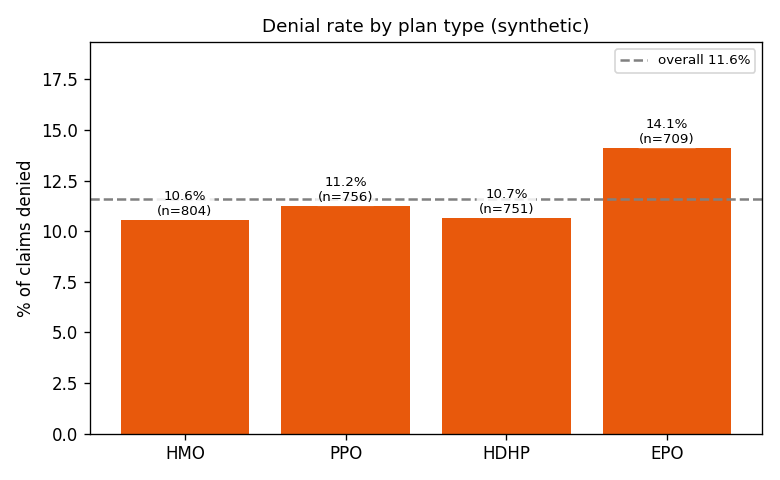
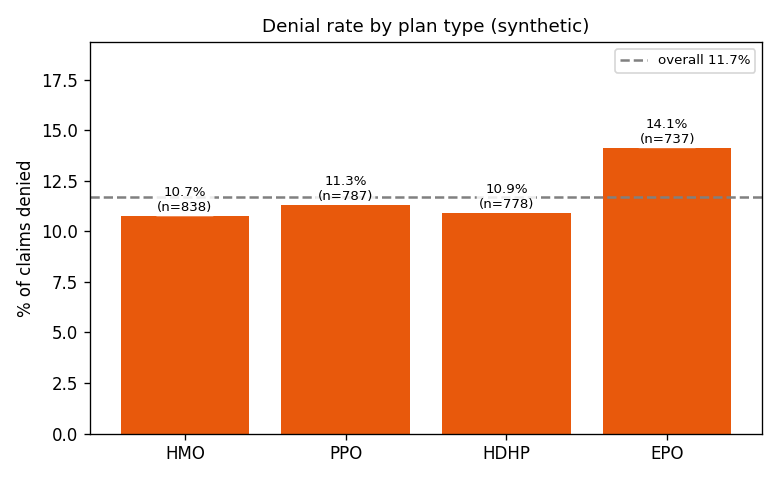
Add denied dollars by reason; refresh claims batches

Changed region(s): [[0.1231, 0.3438, 0.9846, 0.4688], [0.8, 0.2812, 0.8923, 0.3125], [0.0615, 0.1562, 0.1231, 0.1875]]

diff --git a/tests/test_pipeline.py b/tests/test_pipeline.py
@@ -404,3 +404,29 @@ def test_discount_section_renders():
         {"procedure": "93000", "claims": 20, "billed": 2000.0, "allowed": 800.0, "allowed_to_billed": 0.4}])
     assert "| 93000 | 20 | $2,000 | $800 | 40.0% |" in md
     assert "Allowed-to-billed" not in report.render_markdown([], [], [], 0, discounts=[])
+
+
+def test_denied_dollars_by_reason(tmp_path):
+    pipe = Pipeline(tmp_path / "dd.csv")
+    pipe.ingest([
+        make_valid("CLM-1", billed_amount=900, allowed_amount=0, paid_amount=0, status="denied",
+                   denial_reason="not covered"),
+        make_valid("CLM-2", billed_amount=100, allowed_amount=0, paid_amount=0, status="denied",
+                   denial_reason="duplicate claim"),
+        make_valid("CLM-3", billed_amount=100, allowed_amount=0, paid_amount=0, status="denied",
+                   denial_reason="duplicate claim"),
+        make_valid("CLM-4", billed_amount=5000, allowed_amount=3000, paid_amount=2500),   # paid: ignored
+    ])
+    out = pipe.denied_dollars_by_reason()
+    assert [d["reason"] for d in out] == ["not covered", "duplicate claim"]
+    assert out[0]["billed"] == 900.0 and out[0]["share"] == 0.8182     # 900/1100
+    assert out[1]["claims"] == 2 and out[1]["avg_billed"] == 100.0
+    assert Pipeline(tmp_path / "e.csv").denied_dollars_by_reason() == []
+
+
+def test_denied_dollars_section_renders():
+    from healthdata import report
+    md = report.render_markdown([], [], [], 0, denied_dollars=[
+        {"reason": "not covered", "claims": 3, "billed": 900.0, "share": 0.5, "avg_billed": 300.0}])
+    assert "| not covered | 3 | $900 | 50.0% | $300 |" in md
+    assert "Denied dollars" not in report.render_markdown([], [], [], 0, denied_dollars=[])

diff --git a/src/healthdata/report.py b/src/healthdata/report.py
@@ -24,7 +24,8 @@ def render_markdown(monthly: list[dict], denial_reasons: list[tuple[str, int]],
                     concentration: dict | None = None,
                     gates: list[tuple[str, int]] | None = None,
                     denial_procs: list[dict] | None = None,
-                    discounts: list[dict] | None = None) -> str:
+                    discounts: list[dict] | None = None,
+                    denied_dollars: list[dict] | None = None) -> str:
     generated_at = generated_at or dt.datetime.now(dt.timezone.utc)
     total_paid = sum(m["paid"] for m in monthly)
     total_billed = sum(m["billed"] for m in monthly)
@@ -84,6 +85,15 @@ def render_markdown(monthly: list[dict], denial_reasons: list[tuple[str, int]],
                              f"{o['overall_rate']:.1%} | {o['z']:+.2f} |")
         else:
             lines += ["", "No plan/month cells outside the screen."]
+    if denied_dollars:
+        lines += ["", "## Denied dollars by reason", "",
+                  "Billed amount on denied claims. A reason with few claims can still "
+                  "carry a large share when it lands on expensive procedures. Synthetic, illustrative.", "",
+                  "| Reason | Claims | Billed | Share | Avg billed |",
+                  "| --- | ---: | ---: | ---: | ---: |"]
+        for d in denied_dollars:
+            lines.append(f"| {d['reason']} | {d['claims']} | ${d['billed']:,.0f} | "
+                         f"{d['share']:.1%} | ${d['avg_billed']:,.0f} |")
     if discounts:
         lines += ["", "## Allowed-to-billed ratio by procedure", "",
                   "Lowest ratios first (non-denied claims, procedures with enough volume). "

diff --git a/src/healthdata/pipeline.py b/src/healthdata/pipeline.py
@@ -222,6 +222,25 @@ class Pipeline:
         rows.sort(key=lambda x: (x["allowed_to_billed"], x["procedure"]))
         return rows[:top]
 
+    def denied_dollars_by_reason(self) -> list[dict]:
+        """Billed dollars on denied claims per denial reason, largest first,
+        with each reason's share of all denied billed dollars. Counts alone can
+        hide that a rare reason hits expensive procedures. Synthetic,
+        illustrative."""
+        agg: dict[str, list[float]] = {}
+        for r in self.load_store().values():
+            if r.get("status") != "denied":
+                continue
+            a = agg.setdefault(r.get("denial_reason") or "unspecified", [0, 0.0])
+            a[0] += 1
+            a[1] += float(r["billed_amount"] or 0)
+        total = sum(v[1] for v in agg.values())
+        rows = [{"reason": k, "claims": n, "billed": round(b, 2),
+                 "share": round(b / total, 4) if total else 0.0,
+                 "avg_billed": round(b / n, 2)} for k, (n, b) in agg.items()]
+        rows.sort(key=lambda x: (-x["billed"], x["reason"]))
+        return rows
+
     def paid_curve(self, points: int = 20) -> list[tuple[float, float]]:
         """Cumulative share of paid dollars vs share of claims, largest claims
         first, as (claims_fraction, paid_fraction) from (0, 0) to (1, 1).

diff --git a/scripts/daily_update.py b/scripts/daily_update.py
@@ -60,6 +60,7 @@ def main(root: Path | None = None) -> int:
                                outliers=pipe.denial_rate_outliers(),
                                concentration=pipe.paid_concentration(),
                                discounts=pipe.procedure_discounts(),
+                               denied_dollars=pipe.denied_dollars_by_reason(),
                                denial_procs=pipe.procedures_by_denial_reason(),
                                gates=[(n, len(i)) for n, i in run_checks(load_rows(STORE) or [])],
                                procedures=pipe.procedure_summary(),

diff --git a/reports/claims_report.md b/reports/claims_report.md
@@ -1,8 +1,8 @@
 # Healthcare Data - claims pipeline report
 
-Generated 2026-11-20 21:16 UTC. All data is synthetic - no real member, patient or plan information.
+Generated 2026-11-21 02:16 UTC. All data is synthetic - no real member, patient or plan information.
 
-**3020 claims** in store. Billed $9,409,018, paid $5,511,564, denied 350 overall.
+**3140 claims** in store. Billed $9,817,211, paid $5,780,255, denied 367 overall.
 
 ## Monthly financials
 
@@ -20,31 +20,31 @@ Generated 2026-11-20 21:16 UTC. All data is synthetic - no real member, patient 
 | 2026-08 | 50 | $87,251 | $70,911 | $55,220 | 18.0% |
 | 2026-09 | 28 | $97,162 | $80,729 | $53,482 | 7.1% |
 | 2026-10 | 47 | $71,505 | $55,063 | $42,442 | 8.5% |
-| 2026-11 | 2541 | $8,139,056 | $6,285,380 | $4,720,115 | 11.8% |
+| 2026-11 | 2661 | $8,547,249 | $6,612,008 | $4,988,805 | 11.9% |
 
 ## Denial reasons
 
-- duplicate claim (77)
-- timely filing exceeded (72)
-- out-of-network provider (71)
-- missing prior authorization (68)
-- not medically necessary (62)
+- duplicate claim (80)
+- timely filing exceeded (78)
+- out-of-network provider (75)
+- missing prior authorization (70)
+- not medically necessary (65)
 
 ## Plan mix
 
-- HMO: 804
-- PPO: 756
-- HDHP: 751
-- EPO: 709
+- HMO: 838
+- PPO: 787
+- HDHP: 778
+- EPO: 737
 
 ## Plan performance
 
 | Plan | Claims | Denial rate | Paid / billed |
 | --- | ---: | ---: | ---: |
-| HMO | 804 | 10.6% | 61.1% |
-| PPO | 756 | 11.2% | 57.7% |
-| HDHP | 751 | 10.7% | 59.7% |
-| EPO | 709 | 14.1% | 55.7% |
+| HMO | 838 | 10.7% | 61.1% |
+| PPO | 787 | 11.3% | 58.2% |
+| HDHP | 778 | 10.9% | 60.3% |
+| EPO | 737 | 14.1% | 55.9% |
 
 ![Denial rate by plan type](plan_denial_rates.png)
 
@@ -54,10 +54,10 @@ Network discount = 1 - allowed/billed. Member cost share = (allowed - paid)/allo
 
 | Plan | Claims | Network discount | Member cost share |
 | --- | ---: | ---: | ---: |
-| EPO | 609 | 23.6% | 15.7% |
-| PPO | 671 | 22.9% | 15.5% |
-| HDHP | 671 | 22.3% | 15.1% |
-| HMO | 719 | 22.1% | 14.8% |
+| EPO | 633 | 23.5% | 15.5% |
+| PPO | 698 | 22.7% | 15.2% |
+| HDHP | 693 | 22.1% | 15.0% |
+| HMO | 748 | 22.1% | 14.9% |
 
 ## Denial-rate outliers (plan x month)
 
@@ -65,7 +65,19 @@ Cells whose denial rate is at least 2 standard errors from the overall rate (cel
 
 | Plan | Month | Claims | Denial rate | Overall | z |
 | --- | --- | ---: | ---: | ---: | ---: |
-| EPO | 2026-11 | 589 | 14.6% | 11.6% | +2.28 |
+| EPO | 2026-11 | 617 | 14.6% | 11.7% | +2.21 |
+
+## Denied dollars by reason
+
+Billed amount on denied claims. A reason with few claims can still carry a large share when it lands on expensive procedures. Synthetic, illustrative.
+
+| Reason | Claims | Billed | Share | Avg billed |
+| --- | ---: | ---: | ---: | ---: |
+| timely filing exceeded | 78 | $299,809 | 29.5% | $3,844 |
+| not medically necessary | 65 | $206,758 | 20.4% | $3,181 |
+| missing prior authorization | 70 | $188,702 | 18.6% | $2,696 |
+| duplicate claim | 80 | $173,888 | 17.1% | $2,174 |
+| out-of-network provider | 75 | $146,467 | 14.4% | $1,953 |
 
 ## Allowed-to-billed ratio by procedure
 
@@ -73,32 +85,32 @@ Lowest ratios first (non-denied claims, procedures with enough volume). A lower 
 
 | Procedure | Claims | Billed | Allowed | Allowed / billed |
 | --- | ---: | ---: | ---: | ---: |
-| 99214 | 258 | $43,062 | $33,143 | 77.0% |
-| 99213 | 269 | $32,269 | $24,859 | 77.0% |
-| 43239 | 263 | $538,987 | $415,453 | 77.1% |
-| 27447 | 292 | $7,246,953 | $5,597,493 | 77.2% |
-| 85025 | 255 | $13,641 | $10,565 | 77.5% |
-| 93000 | 266 | $26,738 | $20,736 | 77.5% |
+| 99214 | 268 | $44,746 | $34,358 | 76.8% |
+| 99213 | 280 | $33,644 | $25,884 | 76.9% |
+| 43239 | 270 | $555,656 | $429,605 | 77.3% |
+| 27447 | 305 | $7,587,589 | $5,871,115 | 77.4% |
+| 93000 | 274 | $27,643 | $21,408 | 77.5% |
+| 99285 | 281 | $303,485 | $235,508 | 77.6% |
 
 ## Paid-amount concentration
 
-Share of total paid (3020 claims) held by the largest claims. Synthetic data, illustrative.
+Share of total paid (3140 claims) held by the largest claims. Synthetic data, illustrative.
 
 ![Paid concentration curve](paid_concentration.png)
 
 | Top claims | Count | Share of paid |
 | --- | ---: | ---: |
-| top 1% | 31 | 13.7% |
-| top 5% | 151 | 54.3% |
-| top 10% | 302 | 86.6% |
+| top 1% | 32 | 13.5% |
+| top 5% | 157 | 54.1% |
+| top 10% | 314 | 86.7% |
 
 ## Procedures behind the top denial reasons
 
 | Denial reason | Denials | Top procedures (share of that reason) |
 | --- | ---: | --- |
-| duplicate claim | 77 | 99285 (22%), 93000 (13%), 85025 (10%) |
-| timely filing exceeded | 72 | 27447 (15%), 85025 (12%), 93000 (11%) |
-| out-of-network provider | 71 | 70450 (15%), 99285 (14%), 43239 (13%) |
+| duplicate claim | 80 | 99285 (21%), 93000 (14%), 85025 (10%) |
+| timely filing exceeded | 78 | 27447 (14%), 99214 (13%), 85025 (12%) |
+| out-of-network provider | 75 | 70450 (15%), 43239 (13%), 99285 (13%) |
 
 ## Data quality gates
 
@@ -117,32 +129,32 @@ Share of total paid (3020 claims) held by the largest claims. Synthetic data, il
 
 | Code | Claims | Avg billed | Paid | Denial rate |
 | --- | ---: | ---: | ---: | ---: |
-| 27447 | 324 | $24,895 | $4,749,106 | 9.9% |
-| 43239 | 304 | $2,039 | $348,818 | 13.5% |
-| 99285 | 314 | $1,072 | $188,544 | 15.0% |
-| 70450 | 303 | $654 | $115,260 | 11.6% |
-| 99214 | 298 | $167 | $28,078 | 13.4% |
+| 27447 | 338 | $24,928 | $4,987,959 | 9.8% |
+| 43239 | 312 | $2,047 | $360,648 | 13.5% |
+| 99285 | 329 | $1,074 | $199,063 | 14.6% |
+| 70450 | 310 | $654 | $118,306 | 11.3% |
+| 99214 | 314 | $167 | $29,078 | 14.6% |
 
 ## Member utilization
 
-399 of 1549 synthetic members have 3+ claims and account for 44.8% of paid dollars.
+428 of 1574 synthetic members have 3+ claims and account for 48.1% of paid dollars.
 
 | Member | Claims | Paid |
 | --- | ---: | ---: |
+| MBR-1200 | 8 | $473 |
+| MBR-1219 | 6 | $35,318 |
 | MBR-0693 | 6 | $30,518 |
 | MBR-0471 | 6 | $28,114 |
-| MBR-0746 | 6 | $11,961 |
-| MBR-1062 | 6 | $9,989 |
-| MBR-0961 | 6 | $2,171 |
+| MBR-0884 | 6 | $16,003 |
 
 ## Top denial reason by plan
 
 | Plan | Denials | Top reason | Count |
 | --- | ---: | --- | ---: |
-| EPO | 100 | missing prior authorization | 28 |
-| HDHP | 80 | out-of-network provider | 21 |
-| HMO | 85 | duplicate claim | 19 |
-| PPO | 85 | timely filing exceeded | 23 |
+| EPO | 104 | missing prior authorization | 28 |
+| HDHP | 85 | timely filing exceeded | 22 |
+| HMO | 90 | out-of-network provider | 20 |
+| PPO | 89 | timely filing exceeded | 23 |
 
 ## Month-over-month trend (last 6 complete months)
 
@@ -157,7 +169,7 @@ Share of total paid (3020 claims) held by the largest claims. Synthetic data, il
 
 ## Potential duplicate services
 
-41 groups share a member, procedure and service date (review queue, not a quality failure).
+46 groups share a member, procedure and service date (review queue, not a quality failure).
 
 | Member | Procedure | Date | Claims | Paid |
 | --- | --- | --- | ---: | ---: |
